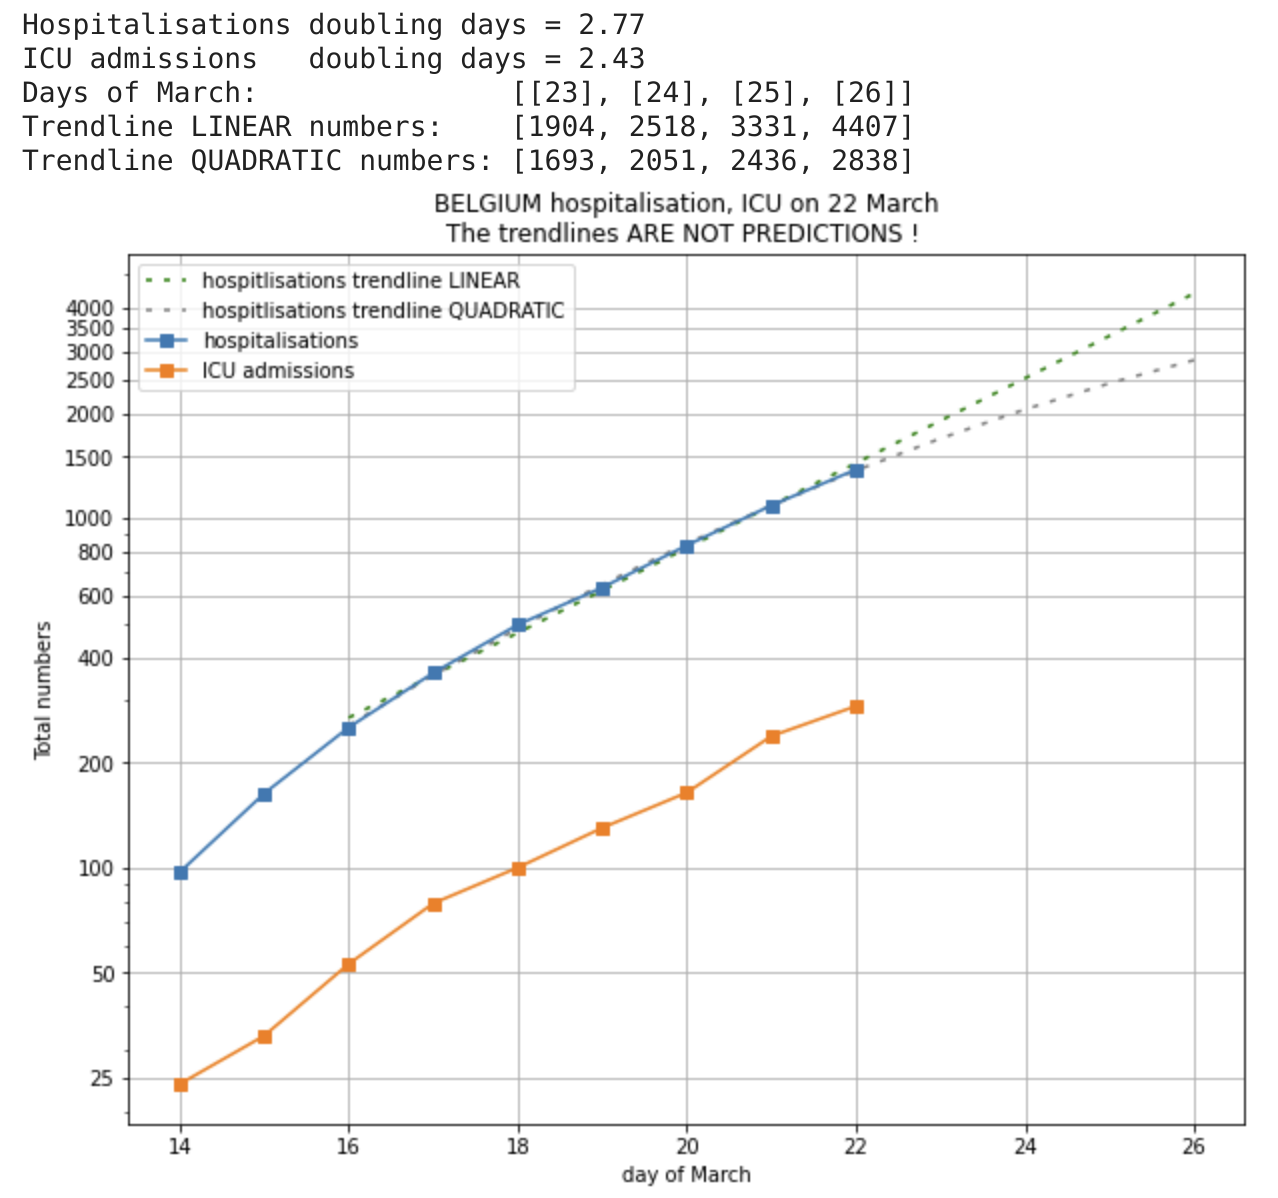
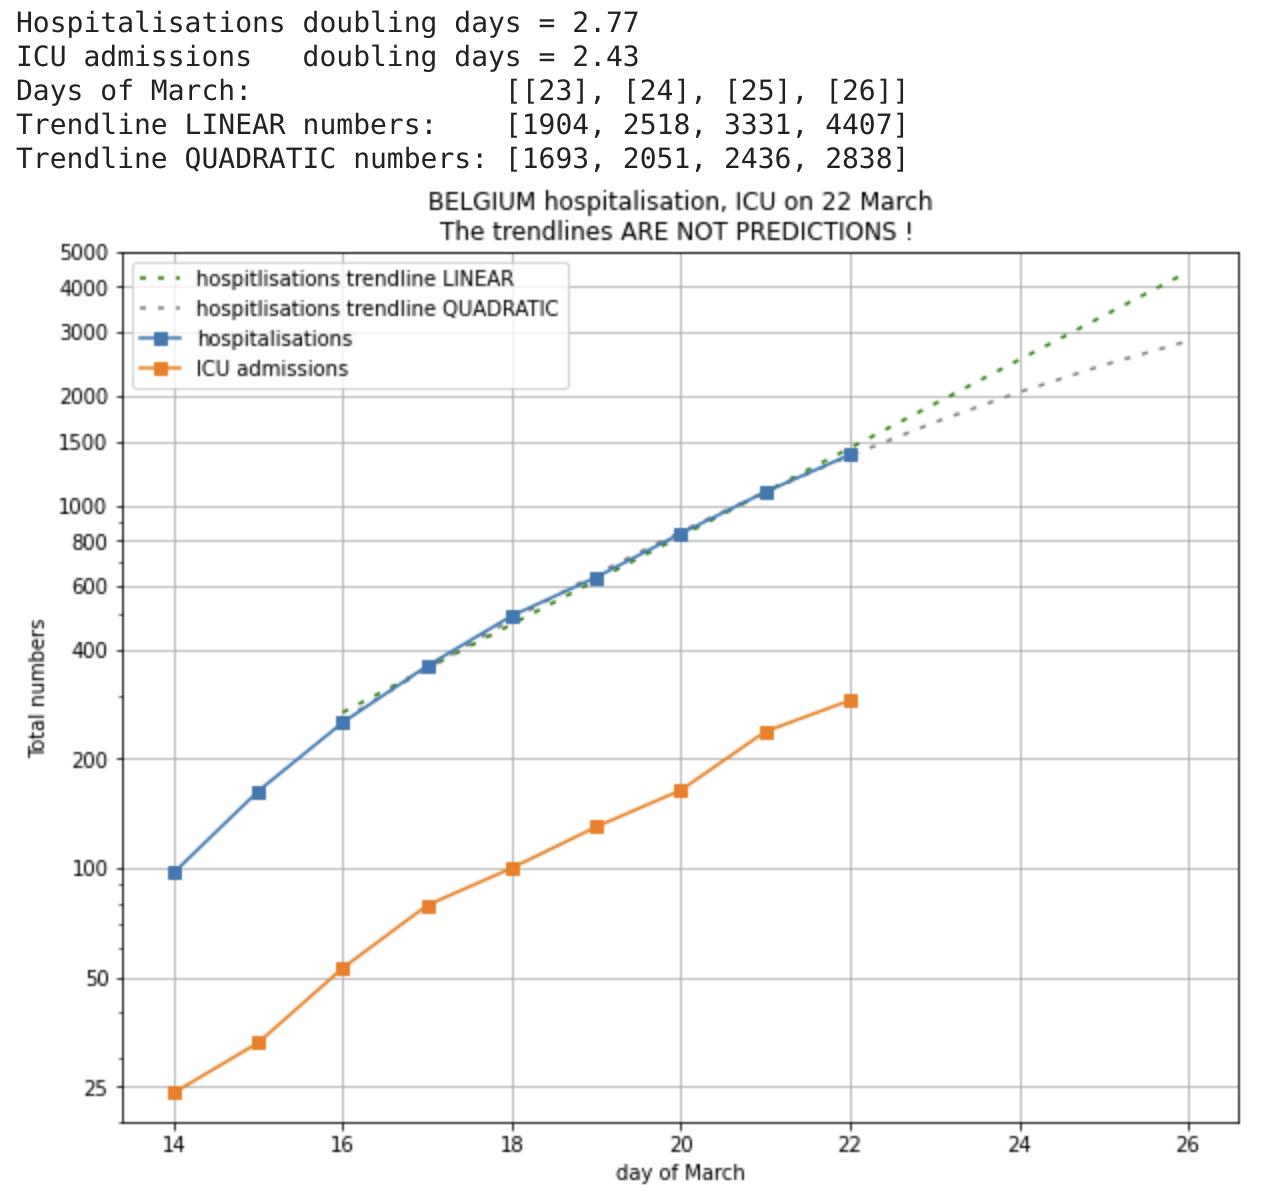
Fix vertical scale 20 - 5000 (to avoid incorrect comparisons Belgium - Netherlands)

Changed region(s): [[0.0, 0.0, 0.9858, 0.959], [0.3081, 0.7115, 0.4313, 0.7734], [0.5237, 0.959, 0.5853, 0.99]]

diff --git a/code/Netherlands/Netherlands-2020-03-22.py b/code/Netherlands/Netherlands-2020-03-22.py
@@ -7,7 +7,6 @@
 # ICU : NOS drawing
 # 21 March : https://www.nu.nl/coronavirus/6036016/flinke-stijging-ziekenhuisopnamen-in-nederland.html
 # Correction on 21 March of the number of ICU admissions
-# NO data for ICU on 22 March yet
 
 import matplotlib.pyplot as plt
 from matplotlib.pyplot import figure
@@ -81,8 +80,8 @@ print(f"Trendline QUADRATIC numbers: {[int(pow(2, x)) for x in log2_hosp_trend_2
 # Prepare the plot
 figure(num=1, figsize=(10, 8))
 plt.yscale("log")
-
-values = [10, 25, 50, 100, 200, 400, 600, 800, 1000, 1500, 2000, 2500, 3000, 3500, 4000]
+plt.ylim((20,5000))
+values = [25, 50, 100, 200, 400, 600, 800, 1000, 1500, 2000, 3000, 4000, 5000]
 plt.yticks(values, ['%d' % val for val in values])
 
 plt.plot(X_, trend_1, color = 'green', dashes=[2, 4], label="hospitlisations trendline LINEAR")

diff --git a/code/Belgium/Belgium-2020-03-22.py b/code/Belgium/Belgium-2020-03-22.py
@@ -2,6 +2,7 @@
 # LINEAR + QUADRATIC trend line
 # Copyright Peter Vandenabeele and Kris Peeters
 # Licensed under BSD license (see below)
+
 import matplotlib.pyplot as plt
 from matplotlib.pyplot import figure
 from math import log, exp, pow
@@ -74,8 +75,8 @@ print(f"Trendline QUADRATIC numbers: {[int(pow(2, x)) for x in log2_hosp_trend_2
 # Prepare the plot
 figure(num=1, figsize=(10, 8))
 plt.yscale("log")
-
-values = [10, 25, 50, 100, 200, 400, 600, 800, 1000, 1500, 2000, 2500, 3000, 3500, 4000]
+plt.ylim((20,5000))
+values = [25, 50, 100, 200, 400, 600, 800, 1000, 1500, 2000, 3000, 4000, 5000]
 plt.yticks(values, ['%d' % val for val in values])
 
 plt.plot(X_, trend_1, color = 'green', dashes=[2, 4], label="hospitlisations trendline LINEAR")
